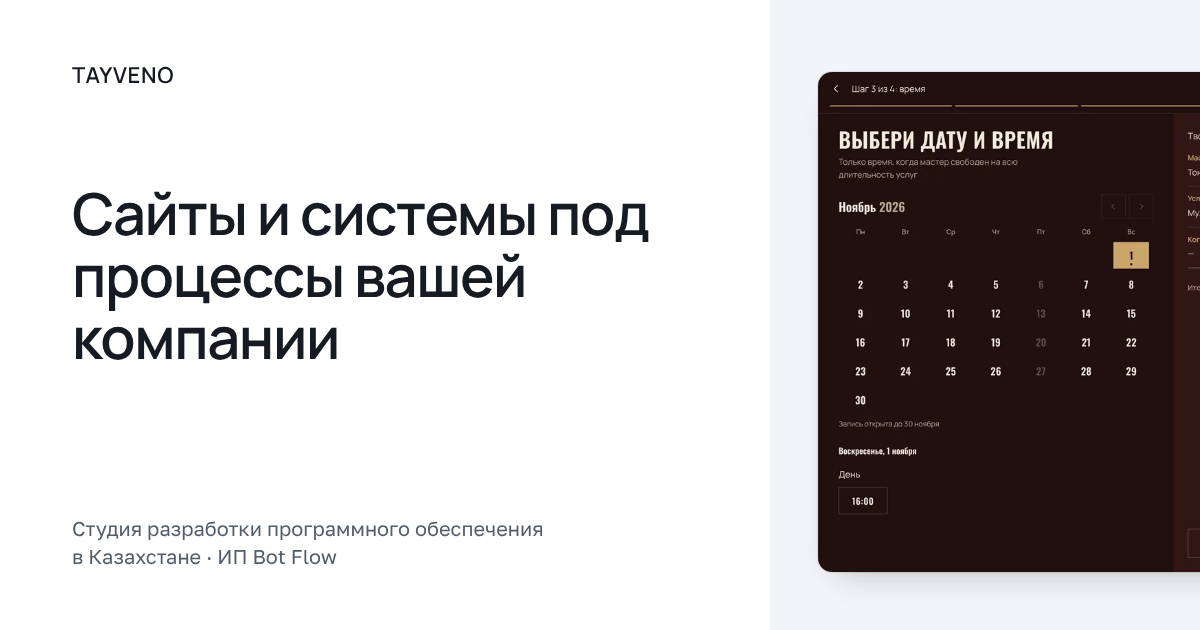
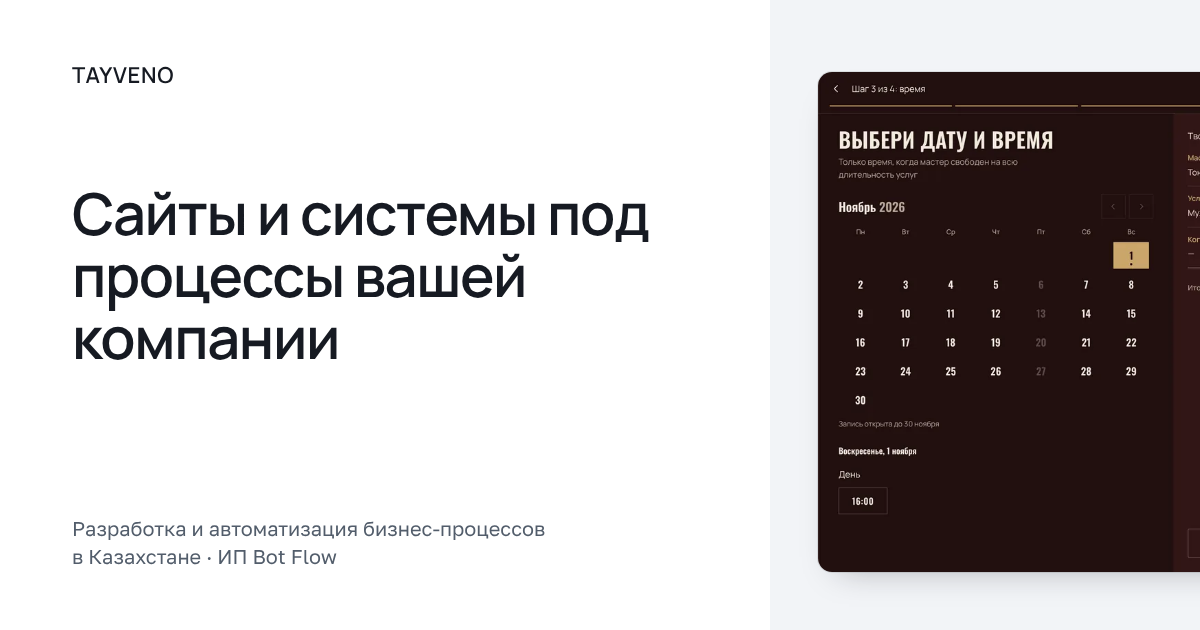
Сайт TAYVENO: направление «WhatsApp для бизнеса» и роль интегратора (ответ поддержки Meta)
Перенос файлов apps/botflow-site из dev (0eb665b) по слову владельца «выкладывай».
Пятое направление с блоком «Как подключаются номера клиентов», упоминание на главной,
в «О студии», в подвале, раздел политики о получателях сообщений WhatsApp, новое описание и превью.

Claude-Session: https://claude.ai/code/session_011fUD2GwfwoYwYw2BSmKBmo

Changed region(s): [[0.0617, 0.8143, 0.4625, 0.8746]]

diff --git a/apps/botflow-site/src/lib/content.ts b/apps/botflow-site/src/lib/content.ts
@@ -1,4 +1,5 @@
 /** Направления работы. Один источник для главной, «Услуг» и подвала. Без обещаний сроков и результатов. */
+export const WHATSAPP_NOTICE = "WhatsApp — товарный знак WhatsApp LLC. ИП Bot Flow — независимый интегратор и не является подразделением или официальным представителем Meta.";
 export const services = [
   {
     slug: "web",
@@ -30,6 +31,29 @@ export const services = [
       "Перенос данных из таблиц и старых систем",
     ],
     start: "Описываем, как сейчас идёт заказ от первого обращения до оплаты, кто что вносит и где данные теряются. Только после этого решаем, что автоматизировать первым.",
+  },
+  {
+    slug: "whatsapp",
+    title: "WhatsApp для бизнеса",
+    short: "Подключаем номер компании к WhatsApp Business Platform: ответы клиентам, запись и уведомления.",
+    intro:
+      "Подключаем и сопровождаем номера компаний на официальной платформе WhatsApp Business Platform (Cloud API). Клиенты пишут компании в привычный WhatsApp, а ответы, запись и уведомления связаны с её учётной системой.",
+    can: [
+      "Подключение номера компании к WhatsApp Business Platform через официальный Cloud API",
+      "Ответы клиентам в WhatsApp: цены, график, запись; сложные вопросы передаются сотруднику",
+      "Сервисные сообщения: подтверждение и напоминание о записи, статус заказа",
+      "Рассылки по шаблонам, одобренным Meta, только тем, кто дал согласие, с отказом одним сообщением",
+      "Рабочее место администратора: переписки с номера компании в одном окне",
+      "Сопровождение номера: шаблоны сообщений, качество и лимиты",
+    ],
+    start: "Выясняем, кому и о чём компания пишет, есть ли согласие клиентов на сообщения и откуда берутся данные: расписание, заказы, бонусы. После этого подключаем номер и согласуем шаблоны.",
+    /** Роль интегратора: кто оказывает услугу и чьи номера подключены. Meta сверяет это с номерами в бизнес-портфолио. */
+    how: [
+      "Услугу оказывает ИП Bot Flow как технический интегратор по договору с компанией-клиентом.",
+      "Номер клиента подключается к WhatsApp Business Platform в бизнес-портфолио Bot Flow. Отображаемое имя номера — название компании клиента.",
+      "С номера компания общается только со своими клиентами. Bot Flow отвечает за техническую часть: подключение, шаблоны, доставку сообщений и хранение переписки.",
+      "Работаем по правилам WhatsApp Business: шаблоны проходят проверку Meta, рассылки идут только с согласия получателя.",
+    ],
   },
   {
     slug: "integrations",

diff --git a/apps/botflow-site/src/config/site.ts b/apps/botflow-site/src/config/site.ts
@@ -74,13 +74,13 @@ export const contactForm = {
 export const site = {
   brand: BRAND,
   /** Короткое описание деятельности: title главной, описание в поиске, Open Graph. */
-  tagline: "Студия разработки программного обеспечения в Казахстане",
+  tagline: "Разработка и автоматизация бизнес-процессов в Казахстане",
   description:
-    "Проектируем и разрабатываем сайты и веб-приложения, CRM и ERP, интеграции и AI-автоматизацию для компаний в Казахстане.",
+    "Разрабатываем сайты, CRM и ERP, интеграции и AI-автоматизацию, подключаем WhatsApp Business Platform для компаний в Казахстане.",
   locale: "ru_RU",
   lang: "ru",
   /** Редакция политики конфиденциальности. */
-  privacyUpdated: "1 ноября 2026 года",
+  privacyUpdated: "11 ноября 2026 года",
 };
 
 /** Заполненные способы связи — в том порядке, в каком их показывать. */
